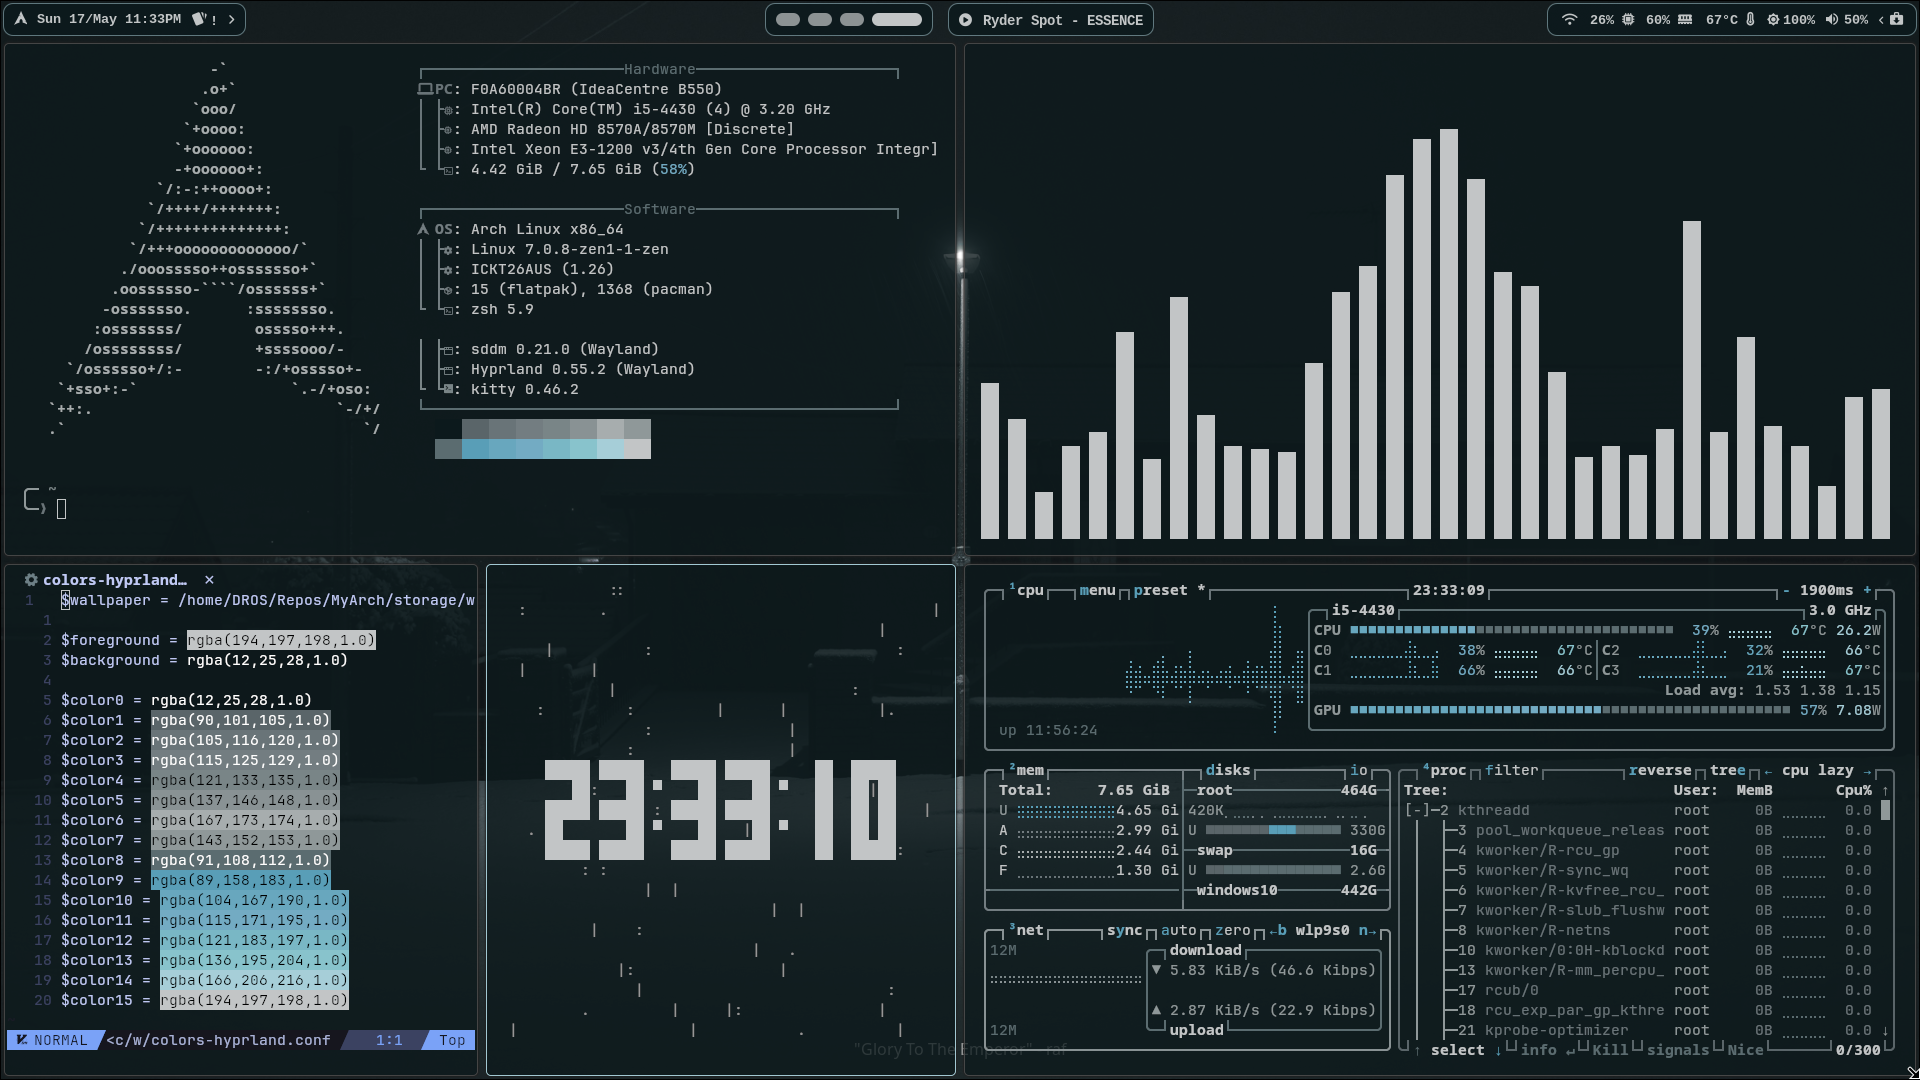
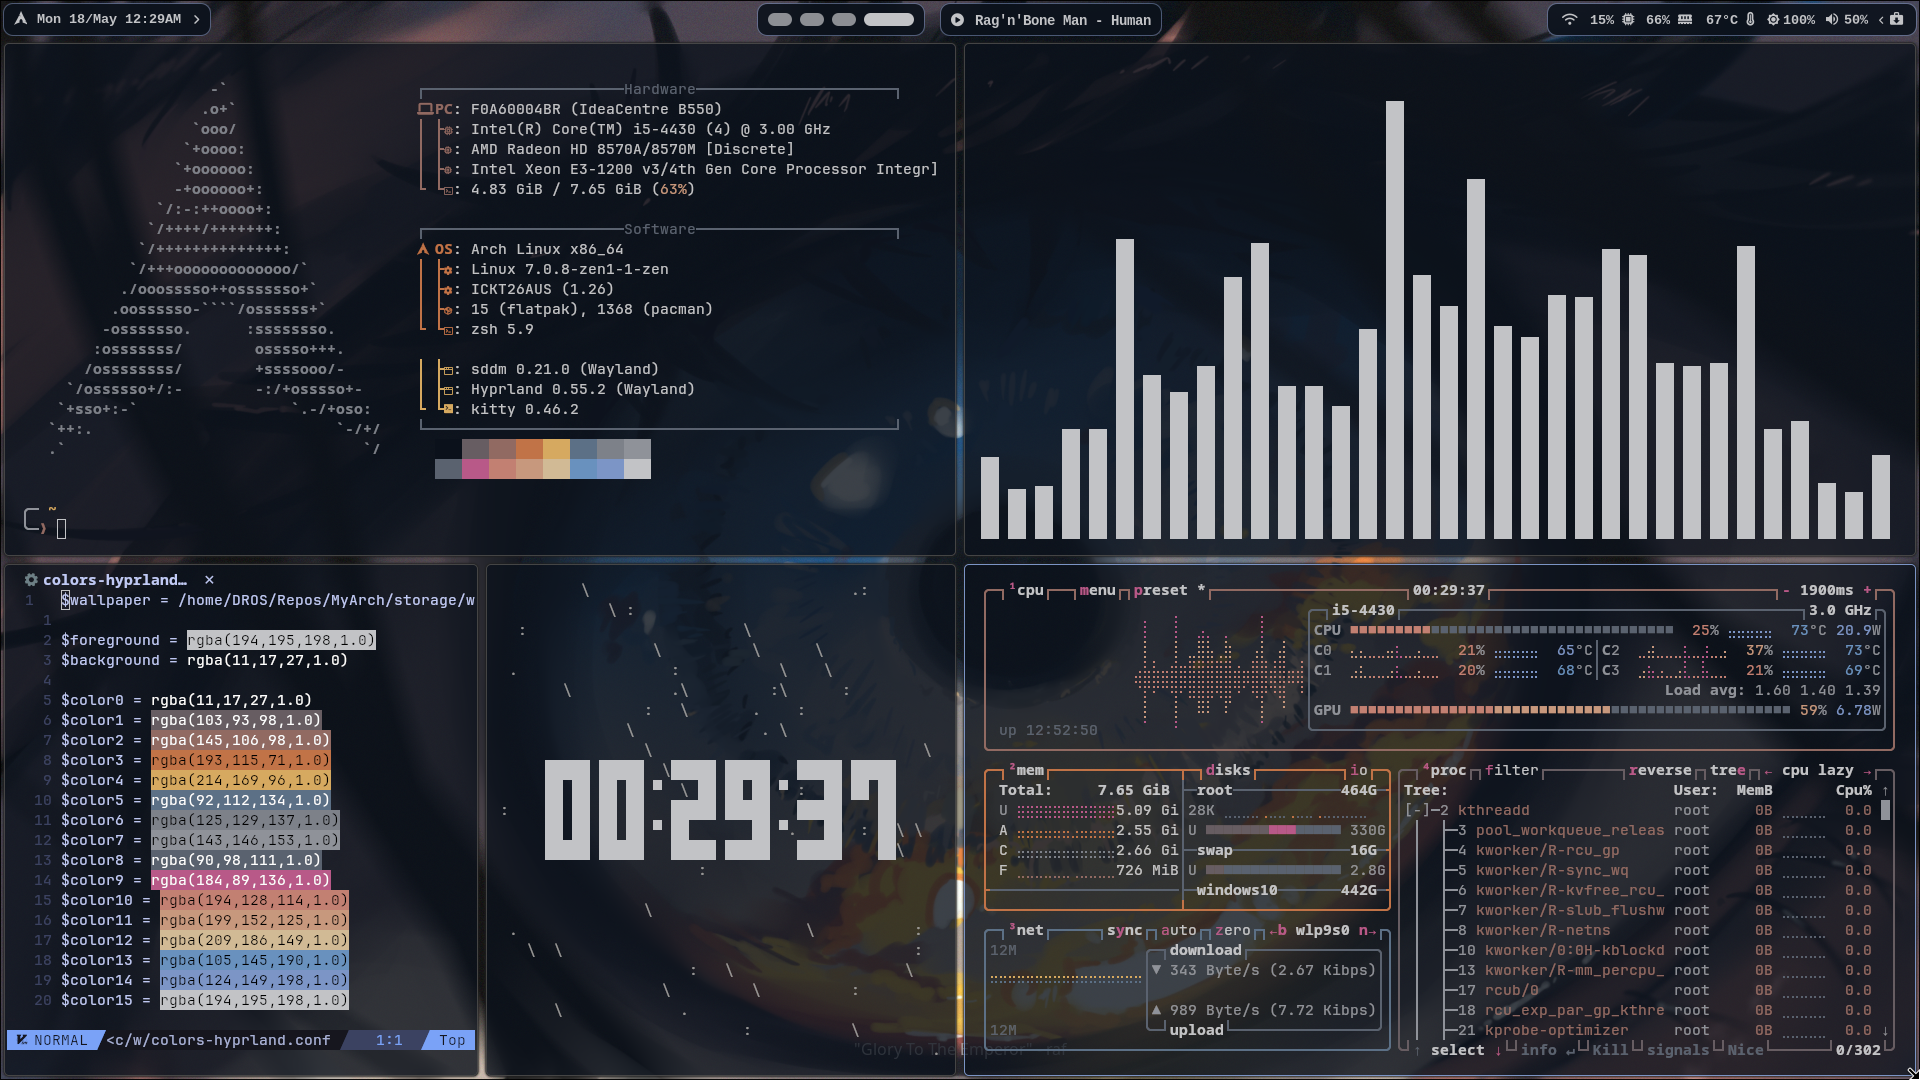
update

diff --git a/wofi/.config/wofi/menu/ricing_sh.css b/wofi/.config/wofi/menu/ricing_sh.css
@@ -36,7 +36,7 @@ window {
 
 #entry {
     padding: 2px;
-    margin: 2px;
+    margin: 10px;
     border-radius: 4px;
     outline: none;
 }
